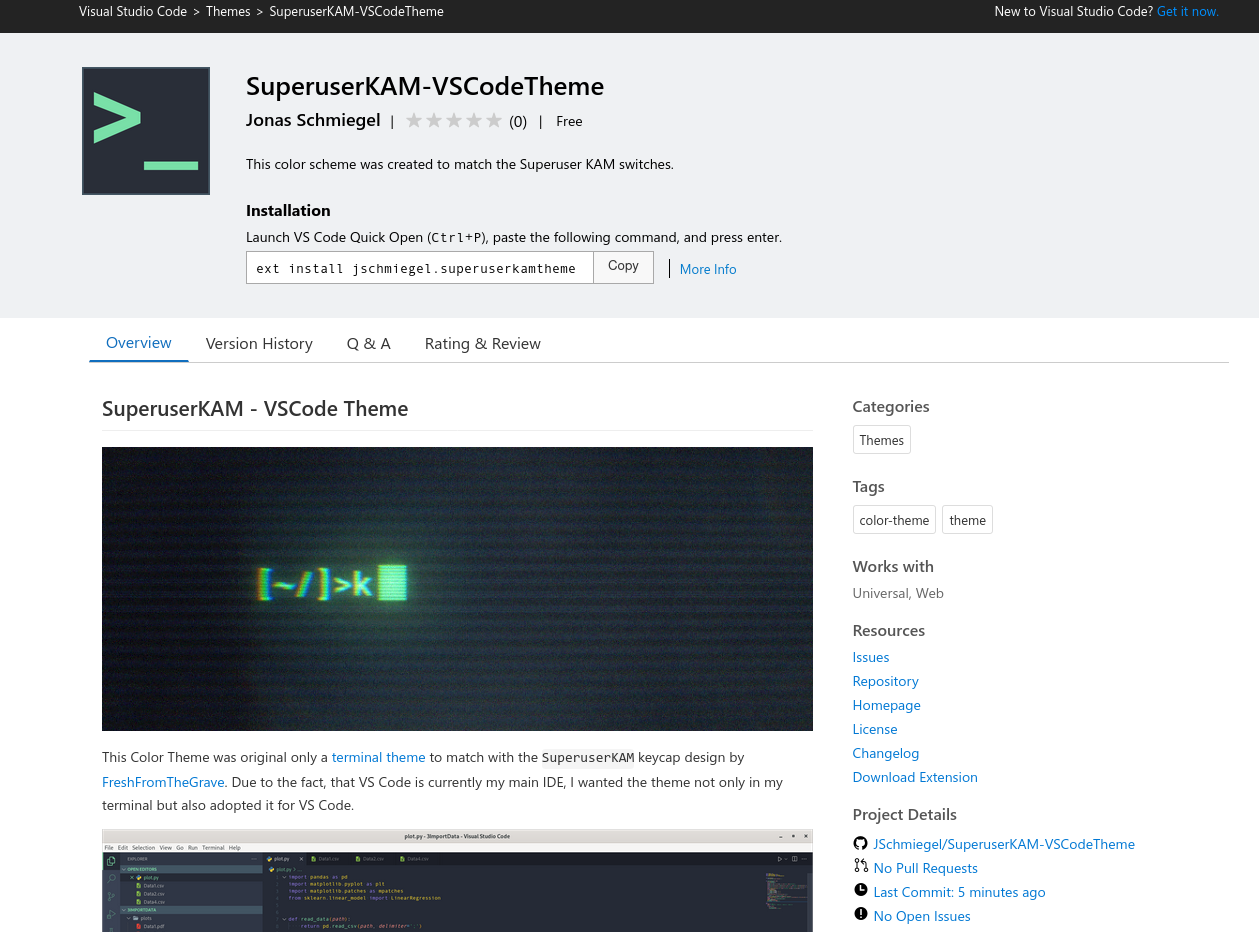
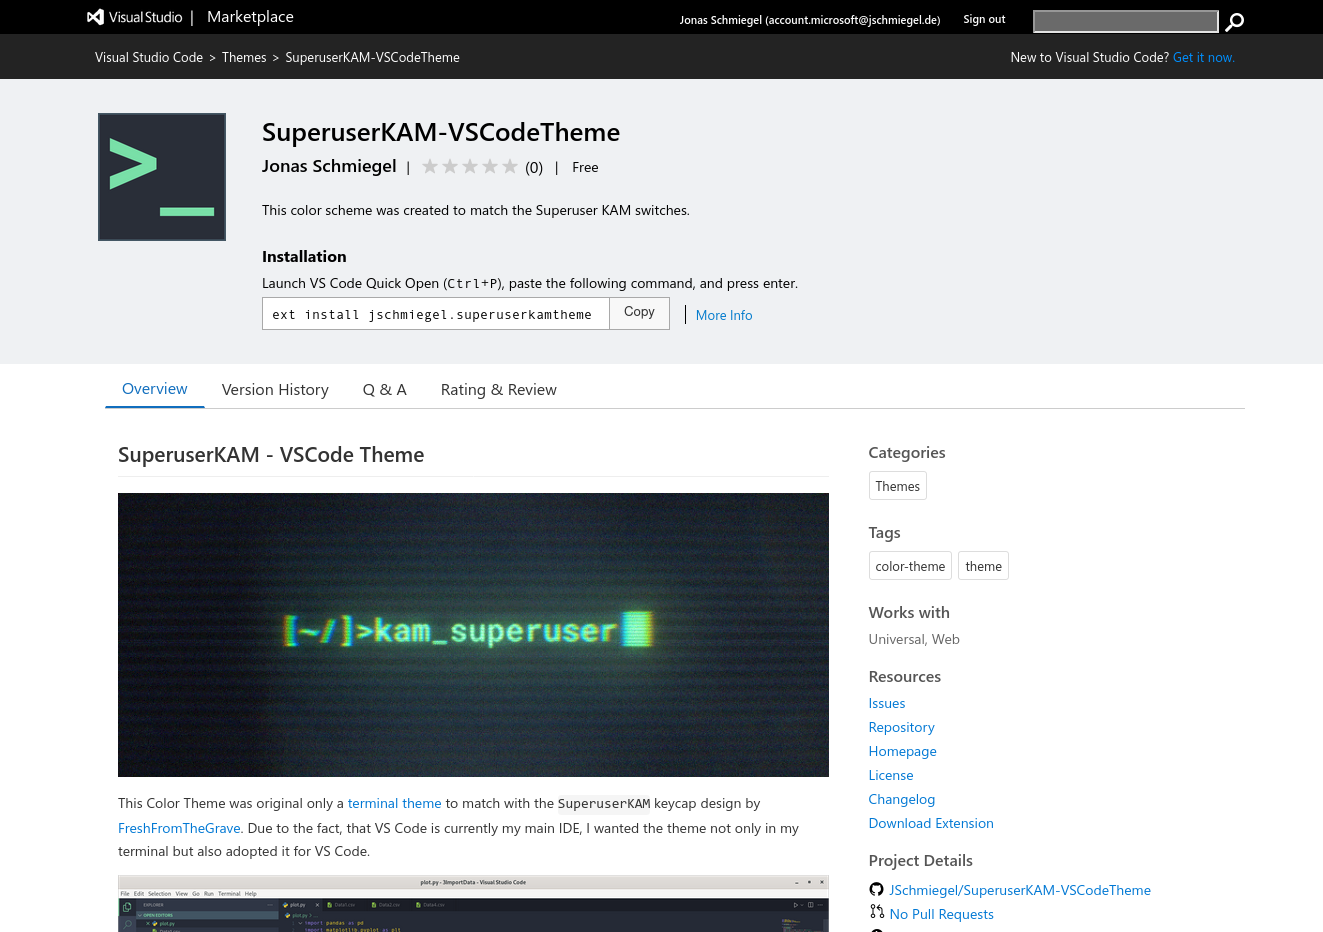
added information for bugs + updated image

diff --git a/CHANGELOG.md b/CHANGELOG.md
@@ -1,5 +1,8 @@
 # Change Log
 
+## 0.1.2
+- added information
+
 ## 0.1.1
 - changed colors of the title bar/menu (bar)
 - changed color of found matches
